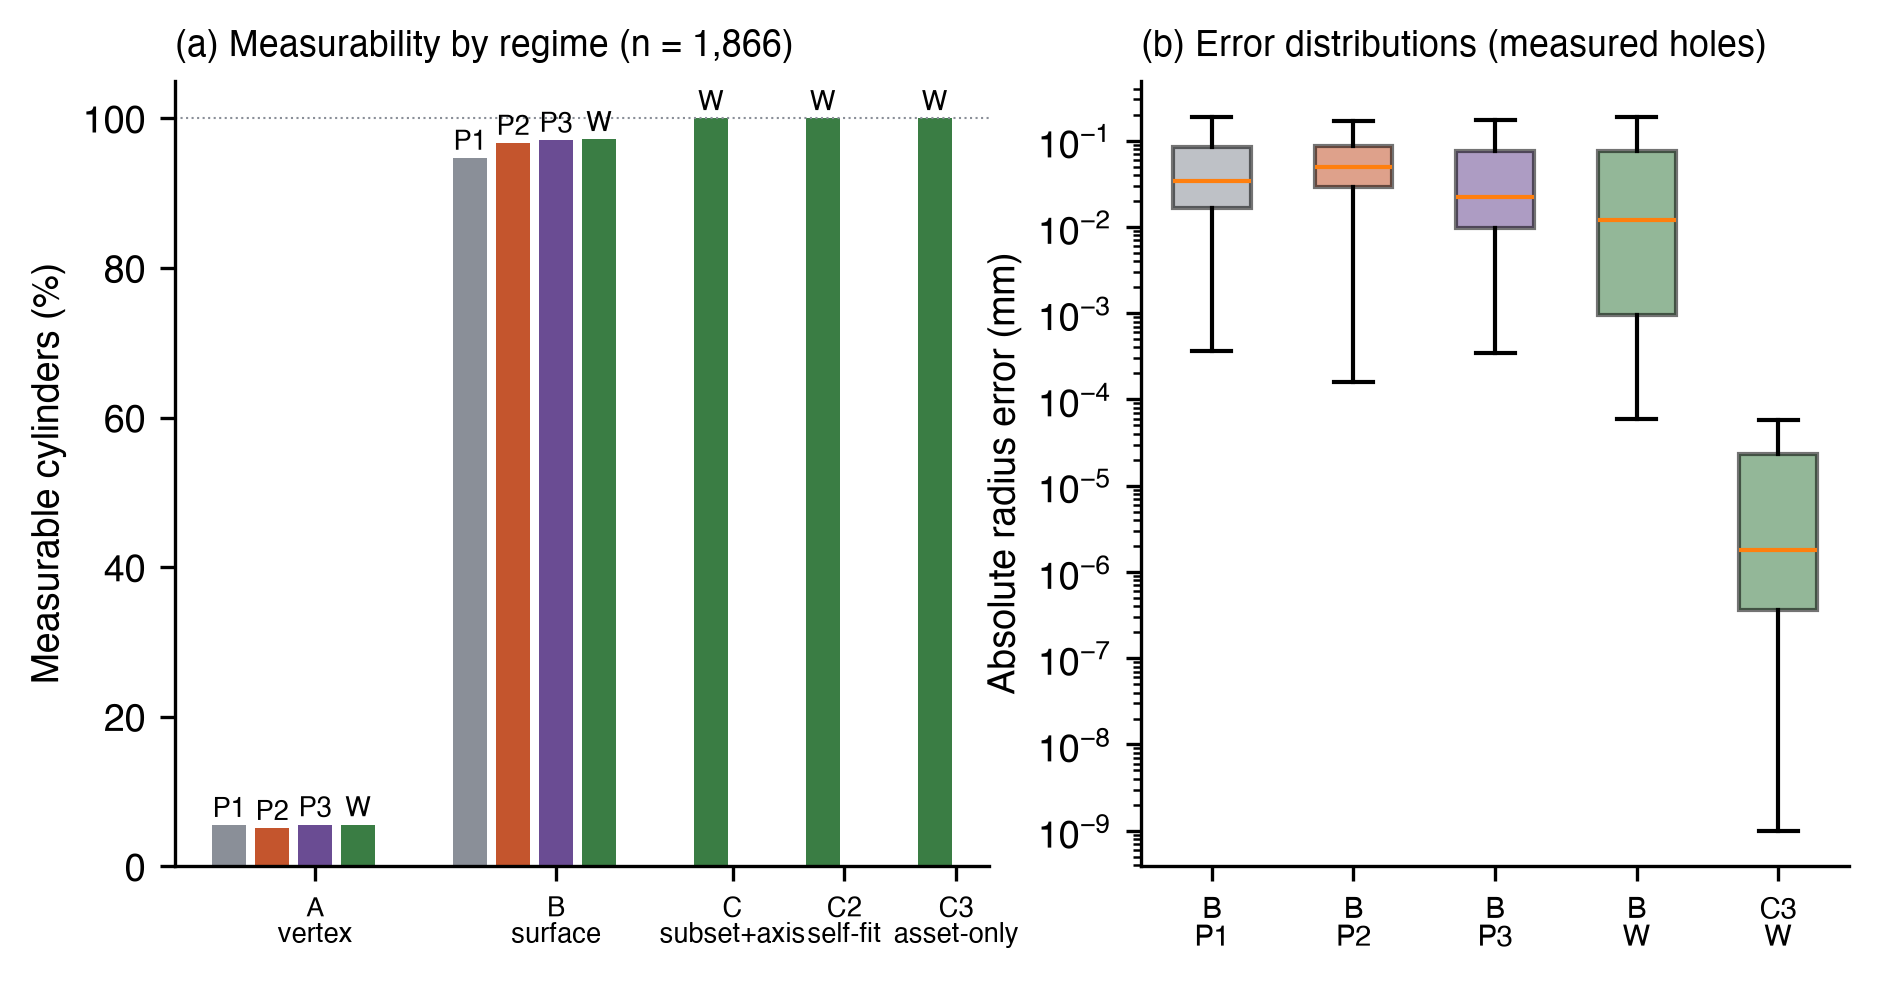
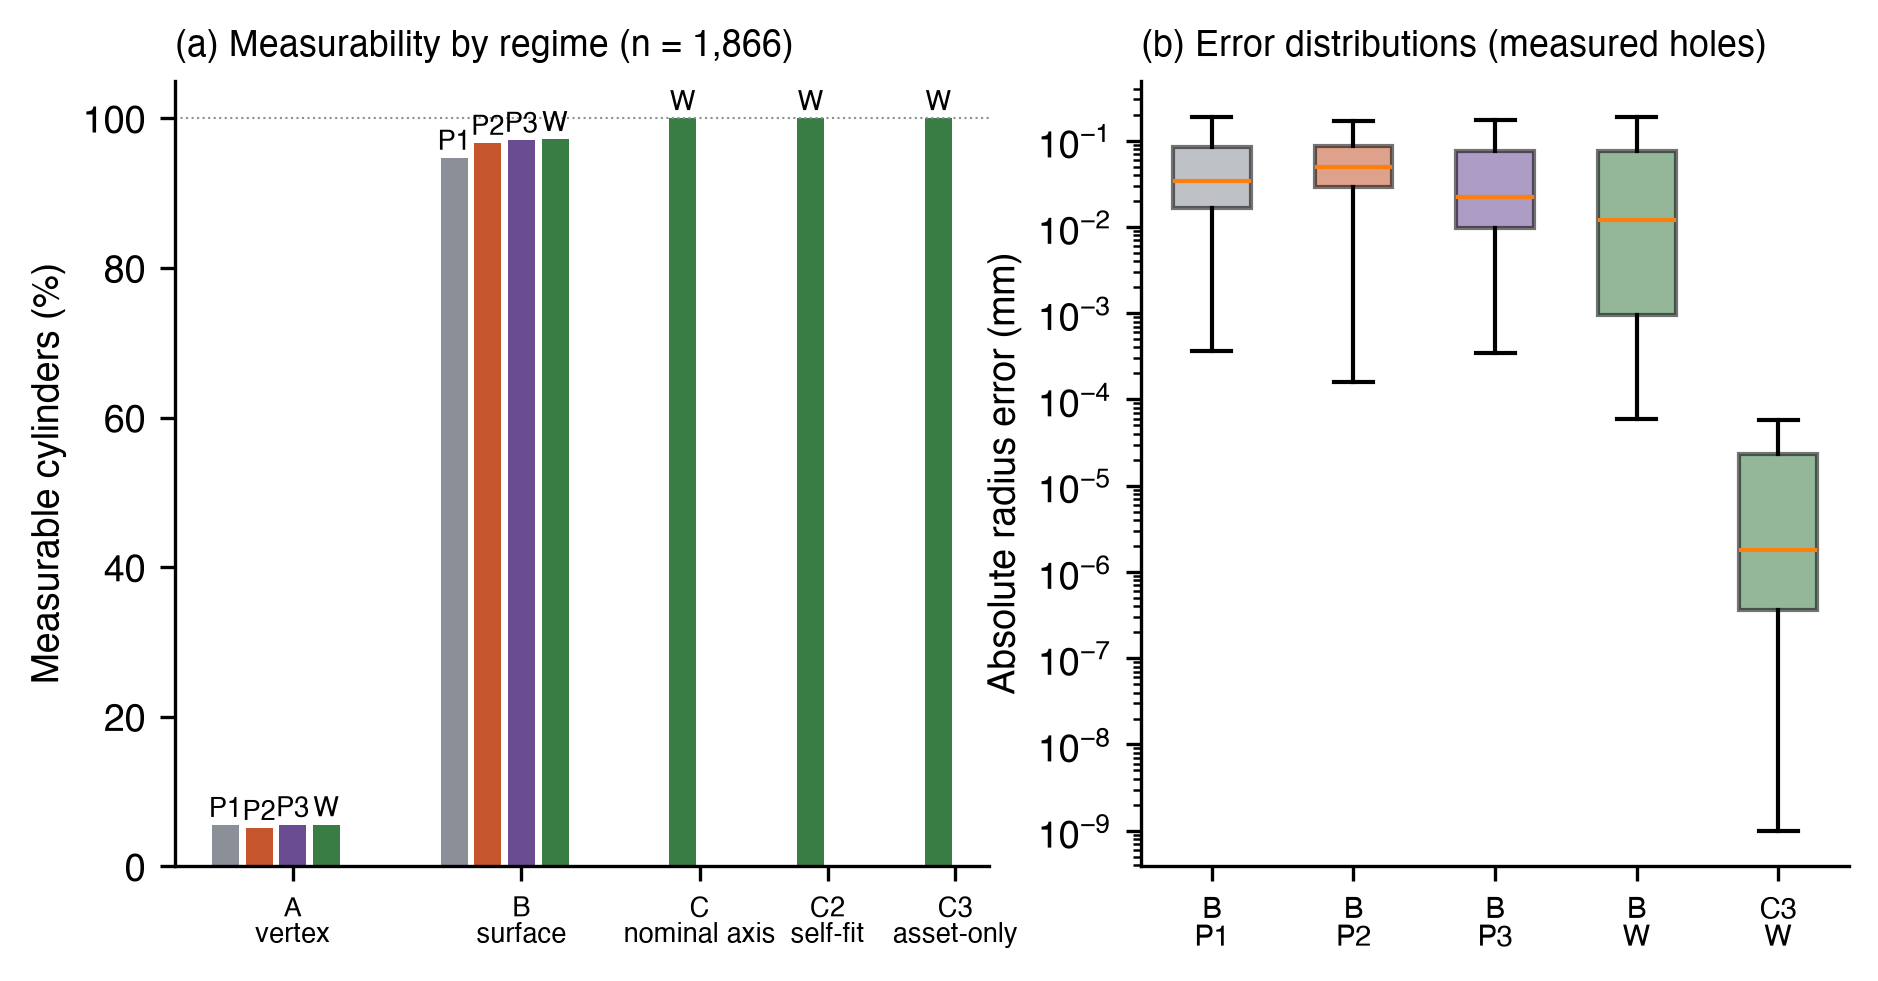
论文全面 review 的处置同步：单位普查、S10 分类订正、图 7/8 修正
对应 papers/08-usd-cad 的 IJIDeM 投稿前全面 review（两轮）。本 repo 侧的改动：

脚本
- 36_tolerance_judgement.py：新增逐模型 pmi:sourceUnit 普查
  （mm-only / inch-only / mixed 分类＋名单＋单位缺陷模型的同伴计数）。
  普查置于 hole-json 过滤之前并加断言——放在之后会在某模型缺 hole 数据时
  静默少算一个模型却照样输出「N 个模型」的分类，正是这次被订正的那类错数的来源。
- 20_aggregate_v2.py：导出 e11.u_* 七键。canonical 669 → 676，既有键逐键 diff 零漂移。
- 27_figures_v2.py：fig7 组间距 1.6→2.8，C 组标签改 nominal axis（刻度标签相撞）。
- 35_selection_figure.py：fig8 三处——按几何自动判定两个目标面是否为同一孔的
  两半圆柱面并在读出里说明；(b) 标题注明视图已放大；无值标注由裸实体号改为
  写明「no value entity in the source」。

结果与文档
- results/：canonical_numbers.json、e11_tolerance_judgement.json、
  calculation-results.md、supplementary-material.md 随之重生成。
- supplementary-material.md（S10）订正两处实测错数：单位分布 7/7/2 → 6/8/2；
  ftc_09 的「其余 inch 标注」22 → 21（22 条含 #9251 本身）。
- REPRODUCE.md：27/36 行说明更新；「canonical 644 键」订正为 669→676。

Changed region(s): [[0.1235, 0.0917, 0.5559, 0.9786], [0.1235, 0.9174, 0.1853, 0.9786], [0.4941, 0.0917, 0.525, 0.1223]]

diff --git a/scripts/36_tolerance_judgement.py b/scripts/36_tolerance_judgement.py
@@ -30,6 +30,7 @@ TESS = 1e-3         # mm，镶嵌级与结构性偏差的分界
 INCH = 25.4
 
 rows, groups = [], []
+unit_census = {}      # 模型 → {sourceUnit: 条数}；S10 的单位分布口径由此产出，不再手数
 funnel = defaultdict(int)
 skipped_dim = defaultdict(int)
 
@@ -41,12 +42,24 @@ def g(prim, n):
 
 for usdc in sorted(glob.glob(os.path.join(proto_dir, "*ap242*.usdc"))):
     base = os.path.basename(usdc)[:-len(".usdc")]
+    stage = Usd.Stage.Open(usdc)
+
+    # ---- 单位普查：按模型统计 pmi:sourceUnit 分布（S10 的 mm-only / inch-only / mixed 分类源）----
+    # ⚠ 必须在下面的 hole-json 过滤**之前**：普查是对交付 stage 的全量统计，与 E11 的可判定子集无关。
+    #    放在 continue 之后会在某个模型缺 hole 数据时静默少算一个模型，却照样输出「N 个模型」的分类
+    #    ——这正是 2026-08-29 那条 S10 分类错数（7/7/2 实为 6/8/2）的复现路径。
+    _uc = defaultdict(int)
+    for _p in stage.Traverse():
+        _su = g(_p, "pmi:sourceUnit")
+        if _su:
+            _uc[str(_su)] += 1
+    unit_census[base] = dict(_uc)
+
     hj = os.path.join(hole_dir, base + ".proto.json")
     if not os.path.exists(hj):
         continue
     fitted = {r["face_index"]: r.get("fitted_r")
               for r in json.load(open(hj)).get("c3_rows", []) if r.get("fitted_r") is not None}
-    stage = Usd.Stage.Open(usdc)
 
     # ---- 漏斗：标注总数 → DIMENSIONAL_SIZE → 双侧带 → diameter/radius ----
     sizes = []
@@ -127,8 +140,23 @@ for g_ in groups:
     if g_["cause"]:
         cause_grp[g_["cause"]] += 1
 
+_n_stage = len([f for f in sorted(glob.glob(os.path.join(proto_dir, "*ap242*.usdc")))])
+assert len(unit_census) == _n_stage, f"单位普查覆盖 {len(unit_census)}/{_n_stage} 个 stage —— 分类计数会错"
+_u_mm = sorted(k for k, v in unit_census.items() if set(v) == {"MILLIMETRE"})
+_u_in = sorted(k for k, v in unit_census.items() if set(v) == {"INCH"})
+_u_mx = sorted(k for k, v in unit_census.items() if len(set(v)) > 1)
+# 单位缺陷模型（ftc_09 #9251）：同模型 inch 标注总数与「其余」数——正文/SI 逐字引用，禁止手数
+_DEFECT_MODEL, _DEFECT_ID = "nist_ftc_09_asme1_ap242-e1", "#9251"
+_def_inch = unit_census.get(_DEFECT_MODEL, {}).get("INCH", 0)
+
 summary = {
     "funnel": dict(funnel), "skipped_by_dimName": dict(skipped_dim),
+    "unit_census": unit_census,
+    "unit_models_mm": len(_u_mm), "unit_models_inch": len(_u_in), "unit_models_mixed": len(_u_mx),
+    "unit_models_inch_any": len(_u_in) + len(_u_mx),   # 「含 inch 标注的模型数」——正文 §4.1 用，禁止手算
+    "unit_models_total": len(unit_census),
+    "unit_models_mm_list": _u_mm, "unit_models_inch_list": _u_in, "unit_models_mixed_list": _u_mx,
+    "defect_model_inch_total": _def_inch, "defect_model_inch_other": max(_def_inch - 1, 0),
     "groups": len(groups), "groups_clean": grp_clean,
     "groups_clean_pct": round(100.0 * grp_clean / len(groups), 2) if groups else None,
     "faces": len(rows), "faces_in_band": face_in,

diff --git a/scripts/35_selection_figure.py b/scripts/35_selection_figure.py
@@ -88,19 +88,27 @@ def draw(ax, hi_tris, title, zoom=None, hl=WARM):
 
 ax1 = fig.add_subplot(121, projection="3d")
 tri_a = np.concatenate([subsets[t] for t in targets if t in subsets])
+# 目标面常常是同一个孔的两半圆柱面——画出来看着只有一个高亮体，读者会以为数字与图不符。
+# 这里按几何事实判定（全为 Cylinder ＋ 各面包围盒与合并包围盒同量级）并在读出里说明。
+_tv = [V[idx[subsets[t]]].reshape(-1, 3) for t in targets if t in subsets]
+_all = np.concatenate(_tv)
+_types = {A(stage.GetPrimAtPath(t), "pmi:surfaceType") for t in targets if t in subsets}
+_one_body = (len(_tv) > 1 and _types == {"Cylinder"}
+             and all(((v.max(0) - v.min(0)) >= 0.55 * (_all.max(0) - _all.min(0))).all() for v in _tv))
+_grouping_note = " — the two halves of one cylindrical bore" if _one_body and len(_tv) == 2 else ""
 draw(ax1, tri_a, "(a) selecting the annotation lights up the faces it governs")
 val, lo, hi_b = A(anno, "pmi:value"), A(anno, "pmi:lowerBound"), A(anno, "pmi:upperBound")
 ax1.text2D(0.02, 0.05,
            f"{A(anno,'pmi:type')}  ({A(anno,'pmi:dimName')})\n"
            f"{val:g} {lo:+g}/{hi_b:+g}  (stage units; source {A(anno,'pmi:sourceUnit')})\n"
-           f"applies to {len(targets)} face subset(s)",
+           f"applies to {len(targets)} face subsets{_grouping_note}",
            transform=ax1.transAxes, fontsize=7.2, va="bottom",
            bbox=dict(boxstyle="round,pad=0.32", fc="#fbf0ec", ec=WARM, lw=0.9))
 
 ax2 = fig.add_subplot(122, projection="3d")
 _pv = V[idx[subsets[probe]]].reshape(-1, 3)
 _c = _pv.mean(axis=0); _r = max(np.abs(_pv - _c).max() * 3.2, EXT.max() * 0.10)
-draw(ax2, subsets[probe], "(b) selecting one face reveals what governs it", zoom=(_c, _r), hl=GREEN)
+draw(ax2, subsets[probe], "(b) selecting one face reveals what governs it (view zoomed on that face)", zoom=(_c, _r), hl=GREEN)
 def _line(p):
     t = A(p, "pmi:type")
     if A(p, "pmi:value") is not None:
@@ -109,8 +117,11 @@ def _line(p):
             t += f" ({A(p,'pmi:dimName')})"
     elif A(p, "pmi:datumLetter"):
         t += f"  datum [{A(p,'pmi:datumLetter')}]"
-    else:                                  # 无数值者显示源实体号，避免出现空行
-        t += f"  {A(p,'pmi:stepId')}"
+    else:                                  # 源里没有可读值者：说明原因，而不是留一个裸实体号
+        if A(p, "pmi:dimName"):
+            t += f" ({A(p,'pmi:dimName')}) — no value entity in the source"
+        else:
+            t += f"  {A(p,'pmi:stepId')}"
     return t
 lines = [_line(p) for p in governing[:4]]
 ax2.text2D(0.02, 0.05, f"{probe.split('/')[-1]} is governed by {len(governing)} annotation(s):\n"

diff --git a/scripts/27_figures_v2.py b/scripts/27_figures_v2.py
@@ -181,7 +181,7 @@ def fig6():
 def fig7():
     regimes = [("A\nvertex", "A_vertex_all", {"chainA": "P1", "omni": "P2", "e2": "P3", "proto": "W"}),
                ("B\nsurface", "B_surface", {"chainA": "P1", "omni": "P2", "e2": "P3", "proto": "W"}),
-               ("C\nsubset+axis", "C_subset", {"proto": "W"}),
+               ("C\nnominal axis", "C_subset", {"proto": "W"}),
                ("C2\nself-fit", "C2_selfcontained", {"proto": "W"}),
                ("C3\nasset-only", "C3_asset_only", {"proto": "W"})]
     # (a) measurable %
@@ -203,7 +203,7 @@ def fig7():
                        ha="center", fontsize=6.5)
             xpos += 1
         xt.append(xpos - (len(pls) + 1) / 2 + 0.5); xl.append(label)
-        xpos += 1.6
+        xpos += 2.8          # 组间距：单柱组的两行标签在 1.6 下会相撞（2026-08-29 全面 review 查出）
     a.set_xticks(xt, xl, fontsize=6.5); a.set_ylabel("Measurable cylinders (%)")
     a.set_title("(a) Measurability by regime (n = 1,866)", fontsize=8.5, loc="left")
     a.axhline(100, color=GRAY, lw=0.5, ls=":")

diff --git a/scripts/20_aggregate_v2.py b/scripts/20_aggregate_v2.py
@@ -327,6 +327,14 @@ if os.path.exists(_e11p):
     K["e11.skipped"] = sum(_s["skipped_by_dimName"].values())
     K["e11.band_min"] = _s["band_width_min"]; K["e11.band_max"] = _s["band_width_max"]
     K["e11.tie"] = _s["tie_tolerance_mm"]
+    # 单位分布（S10）与单位缺陷模型的同伴计数——此前是手数，2026-08-29 全面 review 查出 mm/inch
+    # 分类与 ftc_09 的「其余 inch 标注」两处都错，故提成 canonical 键，禁止再在正文里手写
+    K["e11.u_mm"] = _s["unit_models_mm"]; K["e11.u_inch"] = _s["unit_models_inch"]
+    K["e11.u_mixed"] = _s["unit_models_mixed"]
+    K["e11.u_defect_inch"] = _s["defect_model_inch_total"]
+    K["e11.u_defect_other"] = _s["defect_model_inch_other"]
+    K["e11.u_inch_any"] = _s["unit_models_inch_any"]   # 含 inch 标注的模型数（inch-only ＋ mixed）
+    K["e11.u_total"] = _s["unit_models_total"]
 
 json.dump(K, open("out/e1/canonical_numbers.json", "w"), indent=1, ensure_ascii=False)
 

diff --git a/results/supplementary-material.md b/results/supplementary-material.md
@@ -223,13 +223,13 @@ D2 classifier-threshold sensitivity on P3 (RMS acceptance threshold scanned arou
 
 The recovery rate and the contaminated tail are insensitive to the classifier threshold across a 10× range; in particular the 184 mm worst cases persist at every setting.
 
-Asset-side flaggability rule (Section 6.4; `31_flag_rule.py` / `32_flag_rule_p3.py`): angular coverage of the fitted arc, computed per face subset (W) or per accepted prim (P3) from asset-side information only; threshold 60°. On W it flags 93/1,866 cylinders (5.0%) and captures every radius error above 0.04 mm (unflagged maximum 0.037 mm; unflagged p99 0.0044 mm). On P3 it captures 6 of the 93 errors above 0.1 mm; the 184 mm cases present 180–350° of apparent coverage.
+Asset-side flaggability rule (Section 6.4; `31_flag_rule.py` / `32_flag_rule_p3.py`): angular coverage of the fitted arc, computed per face subset (W) or per accepted prim (P3) from asset-side information only; threshold 60°. On W it flags 93/1,866 cylinders (5.0%) and captures every radius error above 0.04 mm (unflagged maximum 0.037 mm; unflagged p99 0.0044 mm). On P3 it captures 6 of P3's 93 errors above 0.1 mm (a count that coincides numerically with the 93 flagged cylinders on W but is unrelated to it); the 184 mm cases present 180–350° of apparent coverage.
 
 ## S10. Unit resolution and the stage-only decision-closure demonstration
 
 **Unit resolution.** Length values in AP242 are qualified by a unit context, and that context is not uniform across a file. Each measured value reaches the profile through `MEASURE_WITH_UNIT(LENGTH_MEASURE(v), #u)`; `#u` resolves either to `SI_UNIT(<prefix>, .METRE.)` or to `CONVERSION_BASED_UNIT('<name>', #k)`, where `#k` is itself a `LENGTH_MEASURE_WITH_UNIT` giving the factor to a base unit. The parser follows that chain numerically — it does not match on the unit's name — and records, per annotation, the factor to stage units together with the unit name. The writer multiplies value and both bounds by that factor and records the name as `pmi:sourceUnit`; the verbatim `pmi:step` record retains the unqualified source figure.
 
-This is resolved **per annotation, not per file**. Over the 16 models the resolved units are millimetre on 7 models, inch on 7, and **both units within a single part on 2** (`nist_ftc_09_asme1_ap242-e1` and `nist_stc_08_asme1_ap242-e3`). A per-file scale factor — for instance one inferred from the geometry, where the mesh arrives in millimetres regardless — cannot be correct for those two, and is silently wrong by 25.4× on the four models whose geometry is millimetre while their annotations are inch.
+This is resolved **per annotation, not per file**. Over the 16 models the resolved units are millimetre only on 6 models (`ctc_01`, `ctc_02`, `ctc_04`, `ftc_10`, `ftc_11`, `stc_10`), inch only on 8 (`ctc_03`, `ctc_05`, `ftc_06`, `ftc_07`, `ftc_08`, `stc_06`, `stc_07`, `stc_09`), and **both units within a single part on 2** (`nist_ftc_09_asme1_ap242-e1`, 22 inch and 31 millimetre; `nist_stc_08_asme1_ap242-e3`, 36 inch and 1 millimetre). A per-file scale factor — for instance one inferred from the geometry — cannot be correct for those two. It is also silently wrong by 25.4× on three further models (`ctc_03`, `ftc_06`, `stc_06`) whose coordinates are millimetre-scaled while every one of their annotations is inch-denominated. The two properties are independent: only 5 of the 16 models are inch-scaled geometrically (`ctc_05`, `ftc_07`, `ftc_08`, `stc_07`, `stc_09`), whereas 10 carry at least one inch-denominated annotation — the inch-scaled set is a strict subset of the inch-denominated one, and five models are inch-denominated without being inch-scaled.
 
 The audit does not take the factor from the writer's output. It re-reads it from the parsed source context and additionally checks that the unit name the stage declares agrees with the source; a stage whose values were converted with the wrong factor, or whose declared unit name disagrees, fails CF6. ⚠ The limit of that check must be stated: writer and audit read the **same** parsed graph, so CF6 detects a writer-side arithmetic or naming error, not a misreading of the STEP file by the shared parser. The verbatim `pmi:step` record is retained precisely so a reader can audit the parse itself.
 
@@ -252,7 +252,7 @@ Funnel (why the denominator is what it is):
 
 Result: **119 of 128 groups (92.97%) close cleanly**; at face level 585/615 (95.12%) inside band, of which 12 at-limit. The 9 groups that do not close are attributable as: source unit inconsistency 1 (4 faces); one annotation spanning faces of different size 5 (18 faces); tessellation 3 (8 faces).
 
-⭐ **The source unit inconsistency, in full.** `nist_ftc_09` annotation `#9251` is `DIMENSIONAL_SIZE(#9230,'diameter')`; its value entity is `#9252 = (… MEASURE_WITH_UNIT(LENGTH_MEASURE(8.000000), #8506) …)` with bounds `±0.200` bound to the same unit, and `#8506 = (CONVERSION_BASED_UNIT('INCH', #8505) …)`, `#8505 = LENGTH_MEASURE_WITH_UNIT(LENGTH_MEASURE(25.4), #12)`. The unit chain resolves numerically and unambiguously to inch, so the profile carries 203.2 mm. The four faces the annotation reaches measure 8.001 mm and the part's coordinates span about 190 mm, so the stated feature cannot exist on it; read as millimetres the callout fits exactly. The remaining 22 inch-tagged annotations of the same model convert correctly (for example `#8504`, 0.234 in → 5.9436 mm, matching its faces). We therefore report this as a defect in the source model, detected from the delivered scene alone.
+⭐ **The source unit inconsistency, in full.** `nist_ftc_09` annotation `#9251` is `DIMENSIONAL_SIZE(#9230,'diameter')`; its value entity is `#9252 = (… MEASURE_WITH_UNIT(LENGTH_MEASURE(8.000000), #8506) …)` with bounds `±0.200` bound to the same unit, and `#8506 = (CONVERSION_BASED_UNIT('INCH', #8505) …)`, `#8505 = LENGTH_MEASURE_WITH_UNIT(LENGTH_MEASURE(25.4), #12)`. The unit chain resolves numerically and unambiguously to inch, so the profile carries 203.2 mm. The four faces the annotation reaches measure 8.001 mm and the part's coordinates span about 190 mm, so the stated feature cannot exist on it; read as millimetres the callout fits exactly. The model's other 21 inch-tagged annotations (22 carry an inch-resolved unit in total, `#9251` among them) convert correctly (for example `#8504`, 0.234 in → 5.9436 mm, matching its faces). We therefore report this as a defect in the source model, detected from the delivered scene alone.
 
 Per-model closure (annotation groups):
 

diff --git a/REPRODUCE.md b/REPRODUCE.md
@@ -29,7 +29,7 @@
 | 21 | `21_render_draft.py` | draft {{key}} 渲染 | .venv | `draft-zh-v2.rendered.md` |
 | 25 | `25_e2_pcb_batch.ps1` | E2 第二开源链批转换：STEP→Mayo 0.10.0(mayo-conv)→glb→guc 0.5(USD 25.11 预编译) | **Windows 工作站**（预编译栈：Mayo win64 zip＋guc_USD25.11_Windows＋pablode/USD v25.11-ci-release） | `out/e2_mayo/*.{glb,usdc}`＋`e2_batch.log` |
 | 26 | `26_e2_scan.py` | E2 语义/结构扫描（PMI 痕迹/单位声明/mesh·subset 计数） | .venv | `out/e2_audit/scan.json` |
-| 27 | `27_figures_v2.py` | 论文 7 图（3 示意＋4 数据；fig6 复用 v1 存档产物） | .venv | `figures/fig*.{png,tiff}` |
+| 27 | `27_figures_v2.py` | 论文图 1–7（3 示意＋4 数据；fig6 改由 34 真重生成）。Fig 8 见 35 | .venv | `figures/fig*.{png,tiff,eps}` |
 | 40 | `40_supplement_legacy.py` | ⚠ 已废弃：SI 唯一源改为投稿包内 supplementary-material.md 手工维护 | — | — |
 | 41 | `41_repo_staging.py` | 白名单单向同步 → `../usd-pmi-profile/`（同级 checkout；`--check` 漂移校验；repo 自有文件不碰） | .venv | 同级 repo |
 | 28 | `28_convert_docx.py` | 投稿包 docx 转换＋后处理（列宽/行号/页码）＋自检；目标目录见脚本头 | .venv＋pandoc | `<投稿包>/*.docx` |
@@ -41,11 +41,13 @@
 | 34 | `34_fig6_regen.py` | fig6 重生成（原为 v1 存档栅格件，dpi 不达刊要求；同数据/同种子/同阈值重跑邻近查询） | .venv | `figures/fig6_spatial.{png,tiff,eps}` |
 | 37 | `37_preflight.py` | **投稿包 preflight**：跨文件不变量（源/交付物新鲜度・正文声称的存档物是否真在 repo・实验→SI 归属登记・cover letter 陈旧・期刊硬指标・双盲・SI 节数・repo 漂移与白名单）；**红项必须清零才可提交** | .venv | 退出码 |
 | 35 | `35_selection_figure.py` | **Fig 8：选择往返**——标注→其管辖面、面→管辖它的标注，双向均只读交付场景（CF1–CF3 读取路径的静态取样，非交互工具） | .venv | `figures/fig8_selection.{png,tiff,eps}` |
-| 36 | `36_tolerance_judgement.py` | **E11：stage-only 判定链闭合演示**——按**标注组**（非按面）把 C3 拟合尺寸与经 `pmi:appliesTo` 关联的公差带对判；尺寸语义取自 `pmi:dimName`；输出漏斗计数、双口径与出带真因分类；含数值平局容差 | .venv | `out/e11/tolerance_judgement.json` |
+| 36 | `36_tolerance_judgement.py` | **E11：stage-only 判定链闭合演示**——按**标注组**（非按面）把 C3 拟合尺寸与经 `pmi:appliesTo` 关联的公差带对判；尺寸语义取自 `pmi:dimName`；输出漏斗计数、双口径与出带真因分类；含数值平局容差。**并逐模型普查 `pmi:sourceUnit`**（mm-only / inch-only / mixed 分类与单位缺陷模型的同伴计数 → canonical `e11.u_*`，供 SI S10 直接取值，不再手数） | .venv | `out/e11/tolerance_judgement.json` |
 
 批处理入口（**统一在 scripts/ 下，2026-08-28 归位**）：`scripts/run_e3_batch.sh`（E3 全量）、`run_e4_batch.sh`（E4 全量）、`run_redo_batch.sh`（2026-08-28 修复重跑链）、`run_e4b_fix_batch.sh`（C3＋win30 敏感性）、`run_e2_audit_batch.sh`（E2 审计：26 扫描＋18 几何＋19 孔径 A/B，输入=`out/e2_mayo/`）；E9/E9b＝`run_e9_batch.sh`（29/30 逐管线批；D2 阈值扫描＝`PRIM_RMS_TOL` 循环于 `out/e9b_rms*/`）；P3 win30＝`HOLE_WIN_R=0.30` 循环 19 于 `out/e2_win30/`。E5：`usdchecker out/proto_v2/*.usdc`＋`24_blender_import_check.py`（Blender -b --python）。E5b：`22_independent_reader.py`（独立消费端演示；英文注释版 `22_independent_reader_en.py` 入 SI S8 与公开 repo）。S3：`23_registration_table.py`。E8 消融（Table S5，双尺度自标定承重性）＝`run_e8_ablation.sh`。
 
-**单位修复后的最小重跑（2026-08-29）**：`scripts/run_unit_fix_rerun.sh`——只重跑 13→15→16。⚠ 只需这三步：孔计量(19)与基线(29/30/31/32)经核仅读 `pmi:surfaceType` 与几何，**不读 `pmi:value`**，故单位换算不影响任何几何/经验结果（实测 canonical 644 键零漂移）。E11 随后跑 36。
+**单位修复后的最小重跑（2026-08-29）**：`scripts/run_unit_fix_rerun.sh`——只重跑 13→15→16。⚠ 只需这三步：孔计量(19)与基线(29/30/31/32)经核仅读 `pmi:surfaceType` 与几何，**不读 `pmi:value`**，故单位换算不影响任何几何/经验结果（实测 canonical 全键零漂移；该轮键数 669）。E11 随后跑 36。
+
+**全面 review 后的增补（2026-08-29 晚）**：36 增加单位普查、20 增加 `e11.u_*` 五键，canonical 由 669 → **674 键，既有键零漂移**（逐键 diff 核实）。27 的 fig7 组间距与 35 的 Fig 8 读出同轮修正，需重跑 `27 7`＋`35`。
 
 ## P1/P2 存档网格的来源（scripts/01–12＝v1 时代脚本，保留供追溯）
 

diff --git a/results/calculation-results.md b/results/calculation-results.md
@@ -88,6 +88,13 @@
 - `e11.tess_f` = 8
 - `e11.tess_g` = 3
 - `e11.tie` = 1e-05
+- `e11.u_defect_inch` = 22
+- `e11.u_defect_other` = 21
+- `e11.u_inch` = 8
+- `e11.u_inch_any` = 10
+- `e11.u_mixed` = 2
+- `e11.u_mm` = 6
+- `e11.u_total` = 16
 - `e11.unit_f` = 4
 - `e11.unit_g` = 1
 - `e2.geom.mean_of_means` = 0.0112
